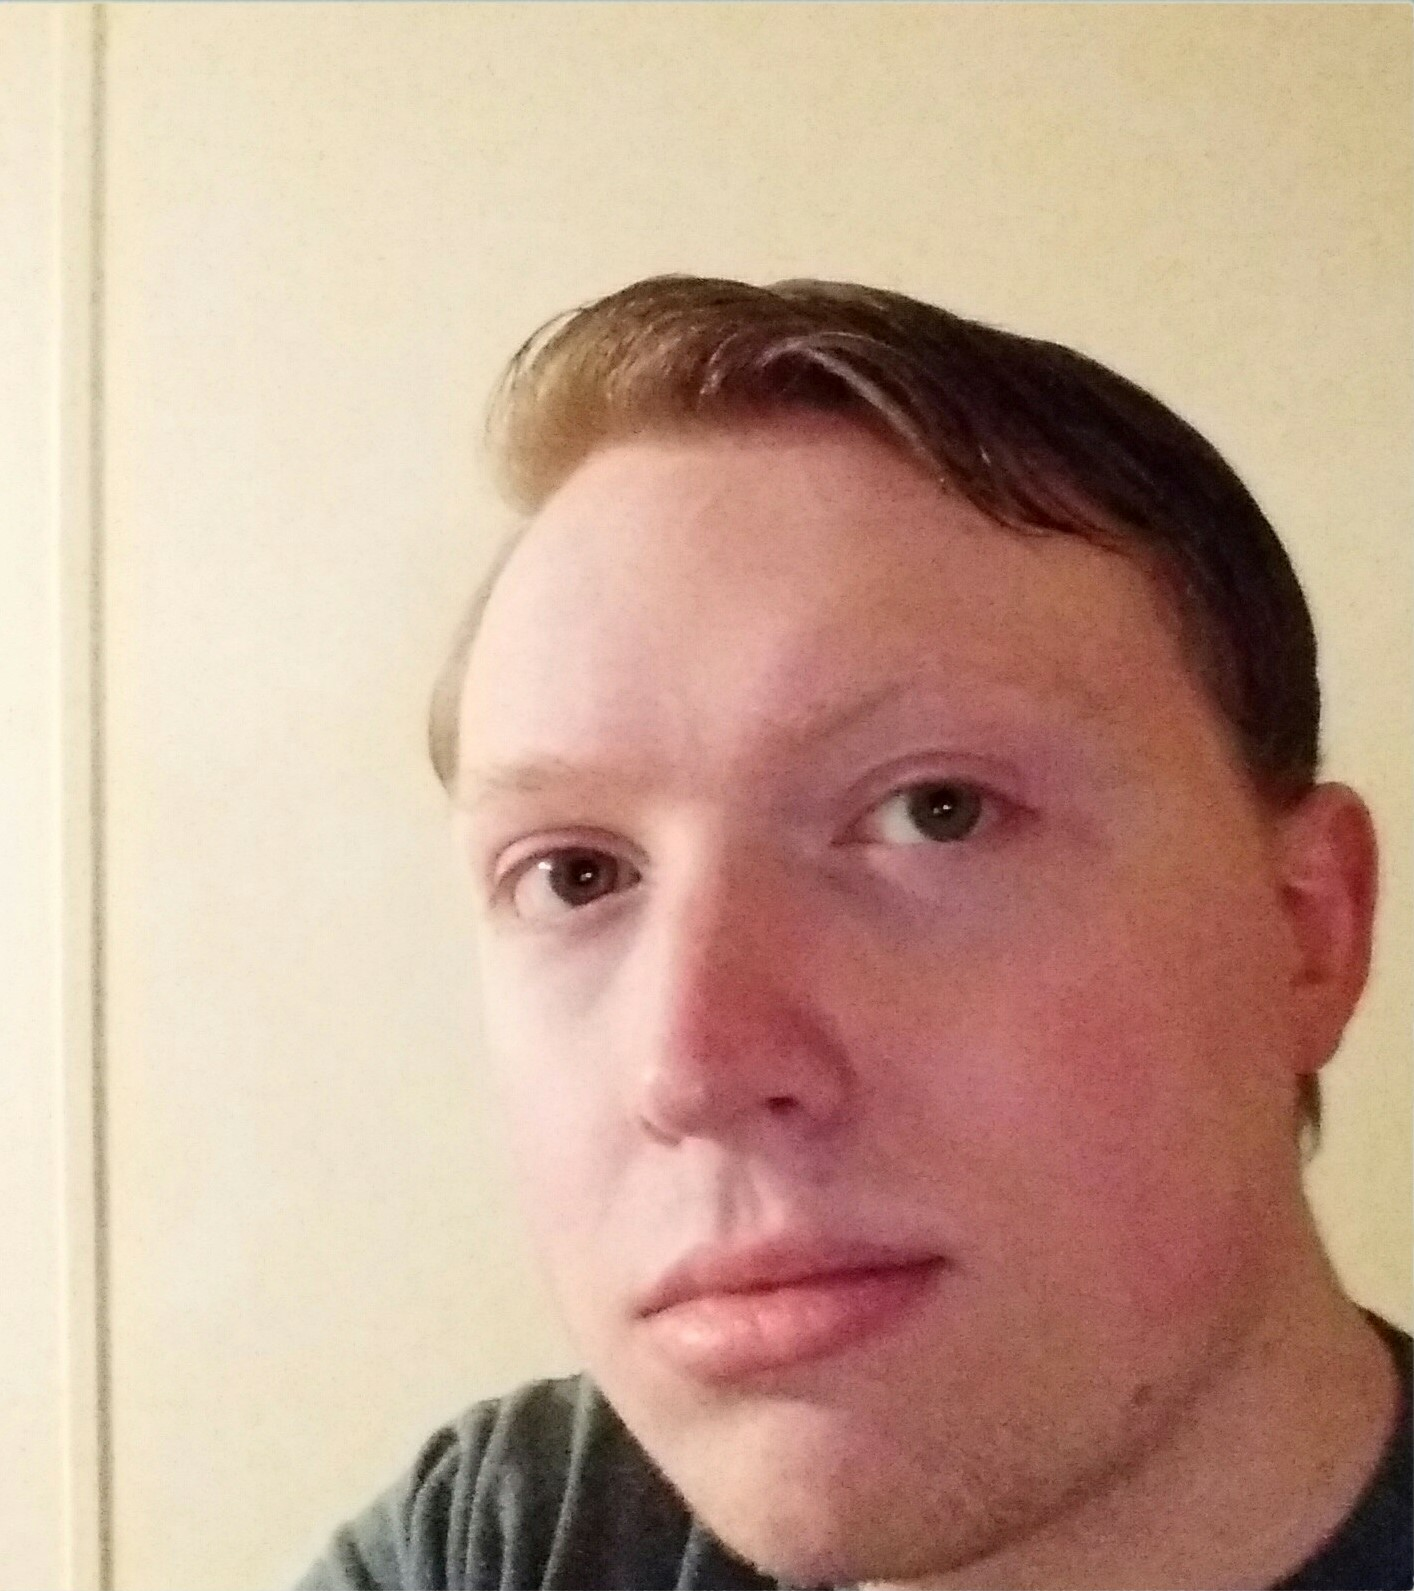
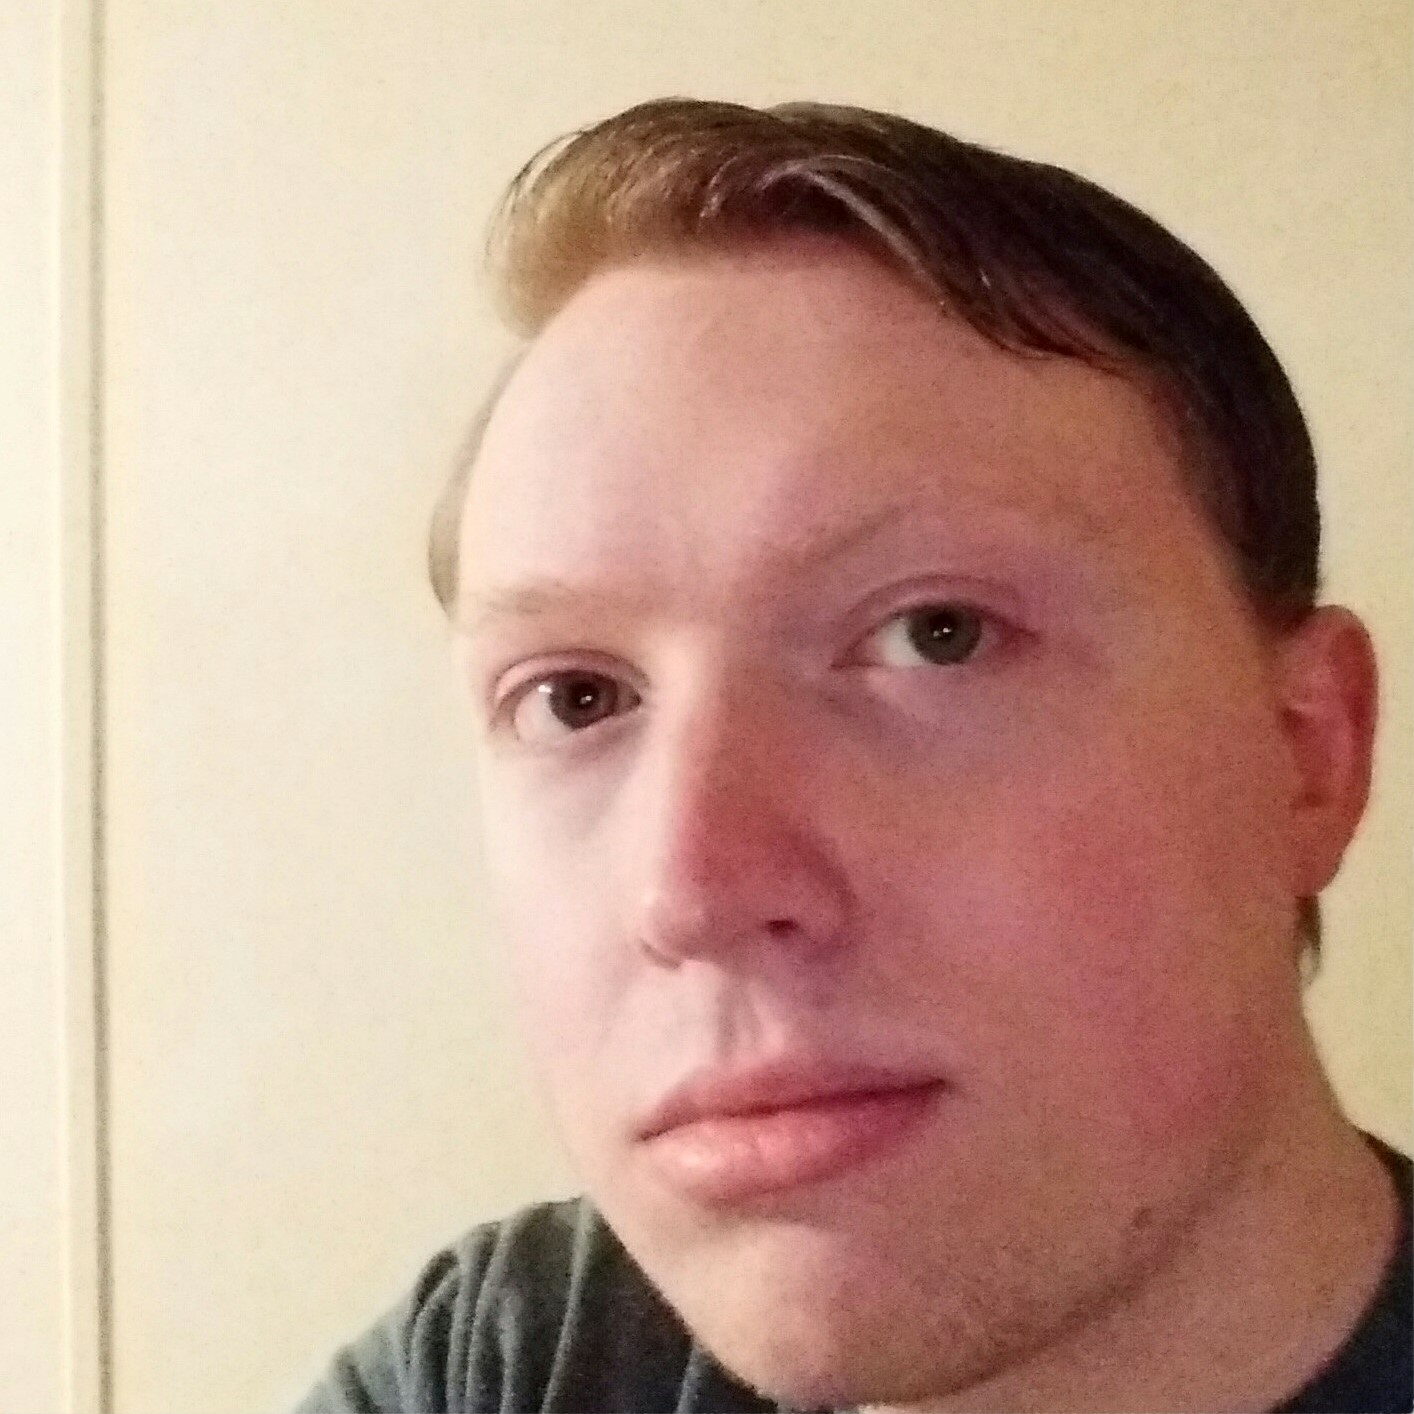
Cropped a couple of images Fixed some things Added github links Fixed some styling issues.

diff --git a/index.html b/index.html
@@ -77,21 +77,31 @@
     </div>
 
     <!-- Insert image header here and a link to the github repo. -->
-    <div class="container bg" id="top">
-        <!-- header image here. -->
-        <img class="img-responsive img-rounded center-block" src="images/main-panel_2.png">
-        <!-- Link to github repo here. -->
-        <form action="https://github.com/pstcc-inventory-transfer/pstcc-inventory-transfer" target="_blank">
-          <button id="pls" type="submit" class="btn btn-primary btn-lg center-block">View The Repo!</button>
-        </form>
+    <div class="container" id="top">
+      <!-- header image here. -->
+      <img class="img-responsive img-rounded center-block" src="images/main-panel_2.png">
+      <!-- Link to github repo here. -->
+      <div class="col-xs-12 col-md-6 col-md-push-3" id="github">
+        <div class="text-center center-block panel panel-default">
+          <div class="panel-heading">
+              <h2>Want to follow the project?</h2>
+          </div>
+          <div class="panel-body">
+            <!-- Place this tag where you want the button to render. -->
+            <a class="github-button" href="https://github.com/pstcc-inventory-transfer/pstcc-inventory-transfer" target="_blank" data-size="large">View the repo here</a>
+            <a class="github-button" href="https://github.com/pstcc-inventory-transfer" data-size="large" data-show-count="true" aria-label="Follow @pstcc-inventory-transfer on GitHub">Follow @pstcc-inventory-transfer</a>
+            <a class="github-button" href="https://github.com/pstcc-inventory-transfer/pstcc-inventory-transfer/subscription" data-icon="octicon-eye" data-size="large" data-show-count="true" aria-label="Watch pstcc-inventory-transfer/pellissippi-inventory-transfer on GitHub">Watch</a>
+            <a class="github-button" href="https://github.com/pstcc-inventory-transfer/pstcc-inventory-transfer/fork" data-icon="octicon-repo-forked" data-size="large" data-show-count="true" aria-label="Fork pstcc-inventory-transfer/pstcc-inventory-transfer on GitHub">Fork</a>
+          </div>
+        </div>
+      </div>
     </div>
-
 
     <!-- Marketing messaging and featurettes
     ================================================== -->
     <!-- Wrap the rest of the page in another container to center all the content. -->
 
-    <div class="container marketing">
+    <div class="container">
       <!-- START THE FEATURETTES -->
       <hr class="featurette-divider">
 
@@ -242,14 +252,18 @@
         <div class="col-lg-4 col-lg-push-2 col-xs-12" id="jonk">
           <img class="img-circle center-block img-responsive" src="images/jon.jpg" alt="Generic placeholder image" width="150" height="150">
           <h2 class="text-center">Jonathan Knight</h2>
-          <p>Donec sed odio dui. Etiam porta sem malesuada magna mollis euismod. Nullam id dolor id nibh ultricies vehicula ut id elit. Morbi leo risus, porta ac consectetur ac, vestibulum at eros. Praesent commodo cursus magna.</p>
+          <p> <!-- Insert actual info here that is not filler -->
+            Donec sed odio dui. Etiam porta sem malesuada magna mollis euismod. Nullam id dolor id nibh ultricies vehicula ut id elit. Morbi leo risus, porta ac consectetur ac, vestibulum at eros. Praesent commodo cursus magna.
+          </p>
           <button type="button" class="btn btn-default btn-lg center-block" data-toggle="modal" data-target="#jon">View More</button>
         </div><!-- /.col-lg-4 -->
 
         <div class="col-lg-4 col-lg-push-2 col-xs-12" id="jakes">
           <img class="img-circle center-block img-responsive" src="images/jake.jpg" alt="Generic placeholder image" width="150" height="150">
           <h2 class="text-center">Jacob Simms</h2>
-          <p>Duis mollis, est non commodo luctus, nisi erat porttitor ligula, eget lacinia odio sem nec elit. Cras mattis consectetur purus sit amet fermentum. Fusce dapibus, tellus ac cursus commodo, tortor mauris condimentum nibh.</p>
+          <p>
+            I like long walks on the beach and moonlight dinners. I'm a romantic at heart but have trouble showing my feelings. I'm looking for someone who shares my interest in video games and loves cats.
+          </p>
           <button type="button" class="btn btn-default btn-lg center-block" data-toggle="modal" data-target="#jake">View More</button>
         </div><!-- /.col-lg-4 -->
       </div>
@@ -257,21 +271,27 @@
         <div class="col-lg-4 col-xs-12">
           <img class="img-circle center-block img-responsive" src="images/zach.jpg" alt="Generic placeholder image" width="150" height="150">
           <h2 class="text-center">Zachary Mitchell</h2>
-          <p>Donec sed odio dui. Cras justo odio, dapibus ac facilisis in, egestas eget quam. Vestibulum id ligula porta felis euismod semper. Fusce dapibus, tellus ac cursus commodo, tortor mauris condimentum nibh, ut fermentum massa justo sit amet risus.</p>
+          <p>
+            Donec sed odio dui. Cras justo odio, dapibus ac facilisis in, egestas eget quam. Vestibulum id ligula porta felis euismod semper. Fusce dapibus, tellus ac cursus commodo, tortor mauris condimentum nibh, ut fermentum massa justo sit amet risus.
+          </p>
           <button type="button" class="btn btn-default btn-lg center-block" data-toggle="modal" data-target="#zachary">View More</button>
         </div><!-- /.col-lg-4 -->
 
         <div id="ben" class="col-lg-4 col-xs-12">
           <img class="img-circle center-block img-responsive" src="images/ben.jpg" alt="Generic placeholder image" width="150" height="150">
           <h2 class="text-center">Benjamin Millsaps</h2>
-          <p>Donec sed odio dui. Cras justo odio, dapibus ac facilisis in, egestas eget quam. Vestibulum id ligula porta felis euismod semper. Fusce dapibus, tellus ac cursus commodo, tortor mauris condimentum nibh, ut fermentum massa justo sit amet risus.</p>
+          <p>
+            Donec sed odio dui. Cras justo odio, dapibus ac facilisis in, egestas eget quam. Vestibulum id ligula porta felis euismod semper. Fusce dapibus, tellus ac cursus commodo, tortor mauris condimentum nibh, ut fermentum massa justo sit amet risus.
+          </p>
           <button type="button" class="btn btn-default btn-lg center-block" data-toggle="modal" data-target="#benj">View More</button>
         </div><!-- /.col-lg-4 -->
 
         <div class="col-lg-4 col-xs-12"  id="mat">
           <img class="img-circle center-block img-responsive" src="images/matt.jpg" alt="Generic placeholder image" width="150" height="150">
           <h2 class="text-center">Mathew Ratliff</h2>
-          <p>Donec sed odio dui. Cras justo odio, dapibus ac facilisis in, egestas eget quam. Vestibulum id ligula porta felis euismod semper. Fusce dapibus, tellus ac cursus commodo, tortor mauris condimentum nibh, ut fermentum massa justo sit amet risus.</p>
+          <p>
+            A dude trying to figure out what to do with his life after noticing the horrid image of himself being shown directly above. Typically enjoys playing video games pretty hardcore, alongside coming up with random projects to do.
+          </p>
           <button type="button" class="btn btn-default btn-lg center-block" data-toggle="modal" data-target="#mathew">View More</button>
           <!-- Insert clickable modals above that extend information about developers. -->
         </div><!-- /.col-lg-4 -->
@@ -287,12 +307,15 @@
           <div class="modal-content">
             <div class="modal-header">
               <button type="button" class="close" data-dismiss="modal">&times;</button>
-              <h4 class="modal-title">Modal Header</h4>
+              <img class="img-circle center-block" src="images/jon.jpg" alt="Generic placeholder image" width="140" height="140">
+              <h2 class="modal-title text-center">Jonathan Knight</h2>
             </div>
             <div class="modal-body">
-              <p>Some text in the modal.</p>
+
             </div>
             <div class="modal-footer">
+              <!-- Insert a link to follow github here. -->
+              <a class="btn btn-default" href="https://github.com/jmknight2">Follow @jmknight2</a>
               <button type="button" class="btn btn-default" data-dismiss="modal">Close</button>
             </div>
           </div>
@@ -308,12 +331,14 @@
           <div class="modal-content">
             <div class="modal-header">
               <button type="button" class="close" data-dismiss="modal">&times;</button>
-              <h4 class="modal-title">Modal Header</h4>
+              <img class="img-circle center-block" src="images/jake.jpg" alt="Generic placeholder image" width="140" height="140">
+              <h2 class="modal-title text-center">Jacob Simms</h2>
             </div>
             <div class="modal-body">
-              <p>Some text in the modal.</p>
             </div>
             <div class="modal-footer">
+              <!-- Github link here -->
+              <a class="btn btn-default" href="https://github.com/JakeSimms33">Follow @JakeSimms33</a>
               <button type="button" class="btn btn-default" data-dismiss="modal">Close</button>
             </div>
           </div>
@@ -329,12 +354,15 @@
           <div class="modal-content">
             <div class="modal-header">
               <button type="button" class="close" data-dismiss="modal">&times;</button>
-              <h4 class="modal-title">Modal Header</h4>
+              <img class="img-circle center-block" src="images/zach.jpg" alt="Generic placeholder image" width="140" height="140">
+              <h2 class="modal-title text-center">Zachary Mitchell</h2>
             </div>
             <div class="modal-body">
-              <p>Some text in the modal.</p>
+            <!-- Enter information about what zachary did here, or more information about him. -->
             </div>
             <div class="modal-footer">
+              <!-- Insert a link to follow zachary on github here -->
+              <a class="btn btn-default" href="https://github.com/zachMitchell">Follow @zachMitchell</a>
               <button type="button" class="btn btn-default" data-dismiss="modal">Close</button>
             </div>
           </div>
@@ -350,18 +378,16 @@
           <div class="modal-content">
             <div class="modal-header">
               <button type="button" class="close" data-dismiss="modal">&times;</button>
-              <img class="img-circle center-block" src="http://www.fillmurray.com/500/500" alt="Generic placeholder image" width="140" height="140">
+              <img class="img-circle center-block" src="images/ben.jpg" alt="Generic placeholder image" width="140" height="140">
               <h2 class="modal-title text-center">Benjamin Millsaps</h2>
             </div>
             <div class="modal-body">
               <!-- Enter information here about benjamin and what he did on the project. -->
-              <p id="ben_info">Some text in the modal.</p>
 
-              <hr class="featurette-divider">
-
-              <p id="ben_proj">What ben did here </p>
             </div>
             <div class="modal-footer">
+              <!-- Insert a link to follow bens github here. -->
+              <a class="btn btn-default" href="https://github.com/BenMillsaps">Follow @BenMillsaps</a>
               <button type="button" class="btn btn-default" data-dismiss="modal">Close</button>
             </div>
           </div>
@@ -377,12 +403,15 @@
           <div class="modal-content">
             <div class="modal-header">
               <button type="button" class="close" data-dismiss="modal">&times;</button>
-              <h4 class="modal-title">Modal Header</h4>
+              <img class="img-circle center-block" src="images/matt.jpg" alt="Generic placeholder image" width="140" height="140">
+              <h2 class="modal-title text-center">Mathew Ratliff</h2>
             </div>
             <div class="modal-body">
-              <p>Some text in the modal.</p>
+
             </div>
             <div class="modal-footer">
+              <!-- Insert a link to follow github here. -->
+              <a class="btn btn-default" href="https://github.com/mwratliff">Follow @mwratliff</a>
               <button type="button" class="btn btn-default" data-dismiss="modal">Close</button>
             </div>
           </div>
@@ -431,5 +460,7 @@
       });
     });
     </script>
+    <!-- Place this tag in your head or just before your close body tag. -->
+    <script async defer src="https://buttons.github.io/buttons.js"></script>
   </body>
 </html>

diff --git a/main.css b/main.css
@@ -211,6 +211,14 @@ div .row {
   margin-top: 0px;
   padding-bottom: -10px;
 }
+
+#ben {
+  border-radius: 50%;
+}
+
+iframe {
+  margin: 0 auto;
+}
 /* RESPONSIVE CSS
 -------------------------------------------------- */
 
